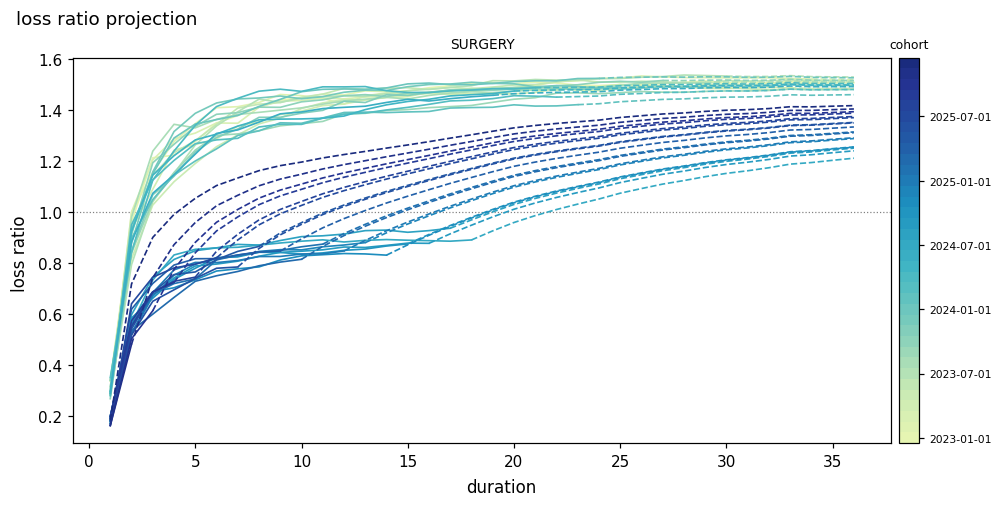
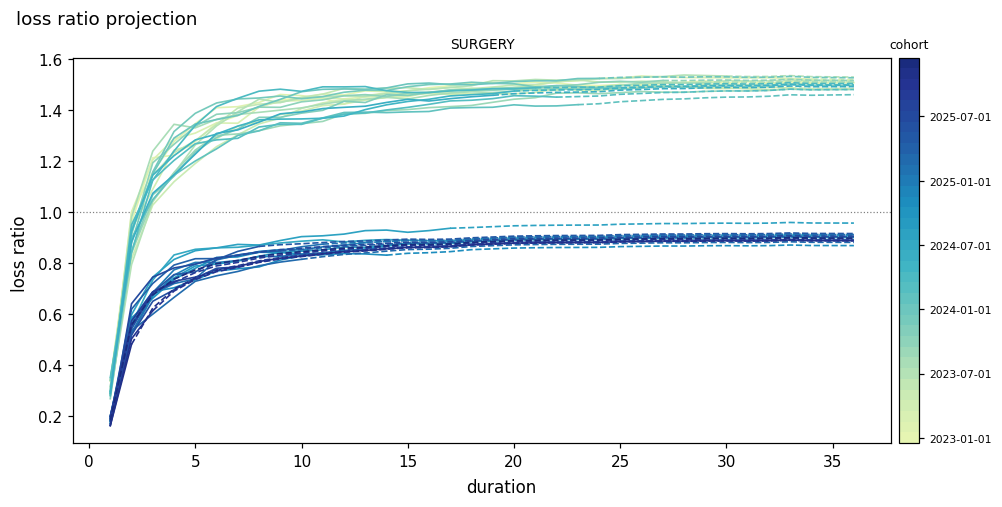
docs: use a regime-aware loss-ratio plot in the README Quick Start
The previous plot projected regime-shifted SURGERY with a regime-blind
`PooledLoss`, so the recent (lower) cohorts fanned implausibly upward toward the
pre-2024-07 level -- pooled-shape regime contamination, which looked wrong as a
hero image. Move the plot after the regime-detection step and project
`segment_wise` so each regime's cohorts develop along their own shape: two clean
bands (~1.5 pre-regime, ~0.9 post-regime). The shown code is reproducible.

Changed region(s): [[0.1238, 0.2071, 0.8663, 0.6805]]

diff --git a/README.md b/README.md
@@ -147,14 +147,6 @@ fit.summary().head(3)
 #> │ SURGERY  ┆ 2023-03-01 ┆ 8.8364e8  ┆ 5.8066e8     ┆ 1.521789   ┆ 0.007969 │
 #> └──────────┴────────────┴───────────┴──────────────┴────────────┴──────────┘
 
-# 4b. Plot the per-cohort loss-ratio trajectories (observed solid, projected
-#     dashed), coloured by cohort.
-fit.plot()
-```
-
-![Loss-ratio projection for SURGERY: per-cohort trajectories, observed (solid) vs projected (dashed), coloured by cohort. Older cohorts settle near 1.5; the 2024-07 regime shift pulls newer cohorts lower.](assets/quickstart_ratio.png)
-
-```python
 # 5. Add an uncertainty band with a residual bootstrap, and read the per-cohort
 #    credibility (u = level, Z = credibility weight, psi = between-cohort var).
 cred = lr.CredibleLoss(uncertainty=lr.ResidualBootstrap(n_replicates=200, seed=1)).fit(tri)
@@ -174,6 +166,20 @@ reg = tri.detect_regime(target="ratio", window=12)
 reg.change_points
 #> [datetime.date(2024, 7, 1)]
 
+# 6b. Project respecting the detected regime (segment_wise: each regime's
+#     cohorts develop along their own shape). The post-2024-07 cohorts now
+#     project along their own ~0.9 level instead of being dragged up toward the
+#     pre-regime ~1.5 -- observed solid, projected dashed, coloured by cohort.
+reg_fit = lr.Ratio(
+    loss=lr.PooledLoss(regime=lr.RegimeDetector(treatment="segment_wise")),
+    premium=lr.PooledPremium(),
+).fit(tri)
+reg_fit.plot()
+```
+
+![Regime-aware loss-ratio projection for SURGERY: two bands -- pre-2024-07 cohorts settle near 1.5, post-regime cohorts near 0.9 -- each projected along its own regime's shape (observed solid, projected dashed, coloured by cohort).](assets/quickstart_ratio.png)
+
+```python
 # 7. Out-of-sample validation. A sequence of holdouts runs a rolling-origin
 #    backtest; reliable_horizon() reports how many durations ahead the
 #    projection stays within tolerance.